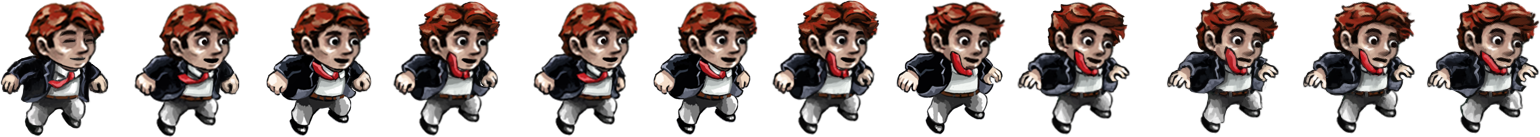
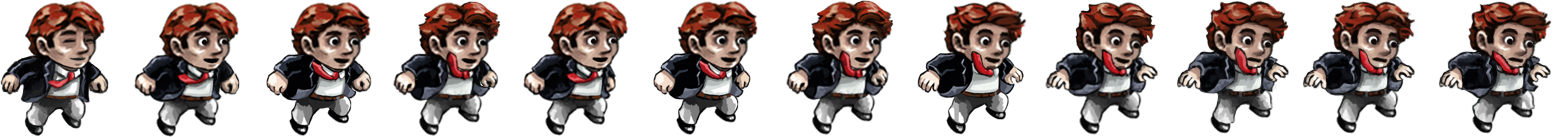
Добавил анимации при движении вверх вниз

diff --git a/models/player.go b/models/player.go
@@ -26,6 +26,8 @@ type Player struct {
 	stayAnimation       *Animation
 	directUpAnimation   *Animation
 	directDownAnimation *Animation
+	sideUpAnimation     *Animation
+	sideDownAnimation   *Animation
 
 	Shader      rl.Shader
 	ImageShader resources.GameShader
@@ -54,6 +56,12 @@ func (p *Player) Load() {
 
 	p.directDownAnimation = NewAnimation(resources.PlayerDirectDownTexture, 6, Temporary).TimeInSeconds(1.5)
 	p.directDownAnimation.Load()
+
+	p.sideUpAnimation = NewAnimation(resources.PlayerSideUpTexture, 12, Temporary).TimeInSeconds(1)
+	p.sideUpAnimation.Load()
+
+	p.sideDownAnimation = NewAnimation(resources.PlayerSideDownTexture, 12, Temporary).TimeInSeconds(1.5)
+	p.sideDownAnimation.Load()
 
 	p.currentAnimation = p.stayAnimation
 
@@ -124,7 +132,7 @@ func (p *Player) Update(delta float32) {
 
 	p.Pos = futurePos
 
-	p.updateAnimation(posDelta, delta)
+	p.updateAnimation(hasCollision, posDelta, delta)
 
 	if p.ImageShader == resources.TextureLightShader {
 		lightPoints := make([]float32, 0)
@@ -147,11 +155,11 @@ func (p *Player) Update(delta float32) {
 	}
 }
 
-func (p *Player) updateAnimation(posDelta rl.Vector2, delta float32) {
+func (p *Player) updateAnimation(hasCollision bool, posDelta rl.Vector2, delta float32) {
 
 	prevAnimation := p.currentAnimation
 
-	if posDelta.X != 0 {
+	if posDelta.X != 0 && hasCollision {
 		p.currentAnimation = p.runAnimation
 	}
 
@@ -161,10 +169,16 @@ func (p *Player) updateAnimation(posDelta rl.Vector2, delta float32) {
 
 	if posDelta.Y > 1 {
 		p.currentAnimation = p.directUpAnimation
+		if posDelta.X != 0 {
+			p.currentAnimation = p.sideUpAnimation
+		}
 	}
 
 	if posDelta.Y < -2 {
 		p.currentAnimation = p.directDownAnimation
+		if posDelta.X != 0 {
+			p.currentAnimation = p.sideDownAnimation
+		}
 	}
 
 	if p.currentAnimation != prevAnimation {

diff --git a/resources/loader.go b/resources/loader.go
@@ -19,6 +19,8 @@ const (
 	PlayerRunTexture        GameTexture = "resources/heroes/tim_run.png"
 	PlayerDirectUpTexture   GameTexture = "resources/heroes/tim_direct_up.png"
 	PlayerDirectDownTexture GameTexture = "resources/heroes/tim_direct_down.png"
+	PlayerSideUpTexture     GameTexture = "resources/heroes/tim_side_up.png"
+	PlayerSideDownTexture   GameTexture = "resources/heroes/tim_side_down.png"
 )
 
 type GameShader string
